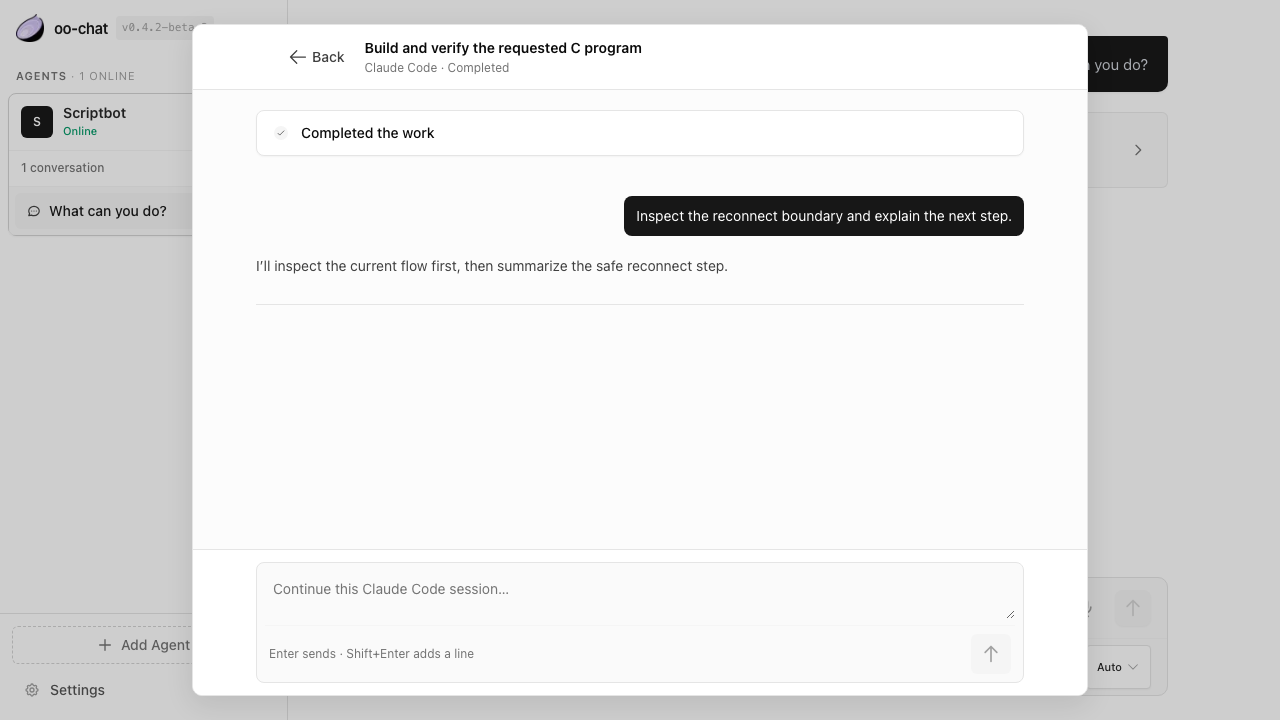
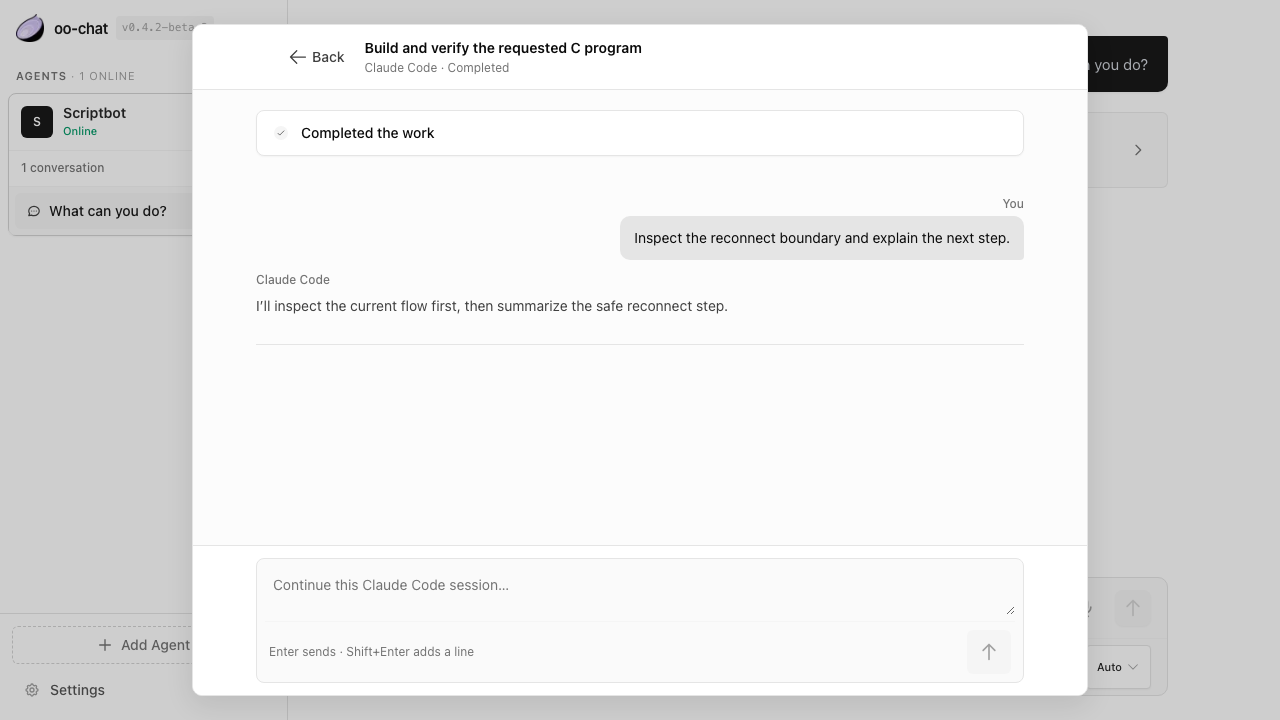
fix(workroom): keep conversation controls visible

diff --git a/components/chat/messages/coding-agent-workroom.tsx b/components/chat/messages/coding-agent-workroom.tsx
@@ -52,17 +52,29 @@ const terminal = new Set(['completed', 'failed', 'cancelled'])
 
 type DisplayActivity = ProviderActivity & { occurrences?: number }
 
-function WorkroomMessage({ role, text }: { role: 'user' | 'assistant'; text: string }) {
+function WorkroomMessage({
+  role,
+  text,
+  providerName,
+}: {
+  role: 'user' | 'assistant'
+  text: string
+  providerName: string
+}) {
   if (role === 'user') {
     return (
-      <div className="max-w-[92%] rounded-xl bg-neutral-900 px-3 py-2 text-sm leading-6 whitespace-pre-wrap break-words text-white">
-        {text}
+      <div className="max-w-[92%]">
+        <p className="mb-1 text-right text-xs font-medium text-neutral-500">You</p>
+        <div className="rounded-2xl rounded-br-md bg-neutral-200 px-3.5 py-2.5 text-sm leading-6 whitespace-pre-wrap break-words text-neutral-950">
+          {text}
+        </div>
       </div>
     )
   }
 
   return (
     <div className="min-w-0 max-w-[92%] text-sm leading-6 text-neutral-900">
+      <p className="mb-1 text-xs font-medium text-neutral-500">{providerName}</p>
       <div className="prose prose-sm prose-neutral max-w-none break-words
         prose-p:my-1.5 prose-headings:my-2 prose-headings:font-semibold
         prose-ul:my-2 prose-ol:my-2 prose-li:my-0.5
@@ -241,16 +253,34 @@ export function CodingAgentWorkroom({
     && normalisedActivityLabel(latestCompleted) !== normalisedActivityLabel(latest)
     ? latestCompleted
     : undefined
-  // An empty conversation is not useful context, and a native approval must
-  // not compete with a transcript or preview. Show the native session only
-  // when it has real evidence, outside an active decision.
-  const showProviderConversation = !hasDecision
-    && (conversation.length > 0 || Boolean(preview))
+  // Render only real provider evidence, but never delete it just because the
+  // lifecycle moves into approval. A remote coding client must keep its
+  // conversation and composer stable while the action inside them changes.
+  const showProviderConversation = conversation.length > 0 || Boolean(preview)
   const composerBlocked = stateNeedsConfirmation
     || stopPending
     || current.status === 'awaiting_approval'
     || (!providerCanAcceptWhileRunning && !terminal.has(current.status))
+    || !providerComposer
   const canSendDirectMessage = providerComposer && !composerBlocked
+  const composerPlaceholder = !providerComposer
+    ? `${current.providerDisplayName} messaging needs a matching Host and client version.`
+    : stateNeedsConfirmation
+      ? 'Waiting for the provider state to be confirmed…'
+      : stopPending
+        ? `Waiting for ${current.providerDisplayName} to stop…`
+        : current.status === 'awaiting_approval'
+          ? 'Resolve the approval request before sending another message…'
+          : !providerCanAcceptWhileRunning && !terminal.has(current.status)
+            ? `${current.providerDisplayName} is working. You can continue when this turn finishes…`
+            : terminal.has(current.status)
+              ? `Continue this ${current.providerDisplayName} session…`
+              : `Tell ${current.providerDisplayName} what to adjust…`
+  const composerHint = !providerComposer
+    ? 'Messaging is unavailable in this client version.'
+    : composerBlocked
+      ? 'This conversation is temporarily read-only.'
+      : 'Enter sends · Shift+Enter adds a line'
   const sendDirectMessage = async () => {
     const text = draft.trim()
     if (!onProviderInput || !text || !canSendDirectMessage || sending) return
@@ -474,7 +504,11 @@ export function CodingAgentWorkroom({
                       data-provider-message-role={message.role}
                       className={message.role === 'user' ? 'flex justify-end' : 'flex justify-start'}
                     >
-                      <WorkroomMessage role={message.role} text={message.text} />
+                      <WorkroomMessage
+                        role={message.role}
+                        text={message.text}
+                        providerName={current.providerDisplayName}
+                      />
                     </li>
                   ))}
                 </ol>
@@ -489,14 +523,6 @@ export function CodingAgentWorkroom({
                 </button>
               )}
             </section>
-          ) : !hasDecision && preview ? (
-            <figure aria-label="Latest provider view" className="mx-auto my-5 flex aspect-video w-full max-w-xl items-center justify-center overflow-hidden rounded-xl border border-neutral-200 bg-neutral-50">
-              <img
-                src={preview.thumbnailDataUrl}
-                alt={preview.alt}
-                className="block h-full w-full bg-neutral-100 object-contain"
-              />
-            </figure>
           ) : null}
 
           {showHistory && (
@@ -516,8 +542,7 @@ export function CodingAgentWorkroom({
 
         </div>
       </main>
-      {providerComposer && !hasDecision && (
-        <footer className="shrink-0 border-t border-neutral-200 bg-white px-4 py-3 sm:px-6">
+      <footer className="shrink-0 border-t border-neutral-200 bg-white px-4 py-3 sm:px-6">
           <div className="mx-auto max-w-3xl">
             {composeError && <p role="alert" className="mb-2 text-sm text-red-700">{composeError}</p>}
             <div className="rounded-xl border border-neutral-200 bg-neutral-50 p-2 focus-within:border-neutral-400 focus-within:bg-white">
@@ -534,29 +559,24 @@ export function CodingAgentWorkroom({
                 rows={1}
                 maxLength={12_000}
                 aria-label={`Message ${current.providerDisplayName} directly`}
-                placeholder={composerBlocked
-                  ? `${current.providerDisplayName} is working. You can continue when this turn finishes…`
-                  : terminal.has(current.status)
-                    ? `Continue this ${current.providerDisplayName} session…`
-                    : `Tell ${current.providerDisplayName} what to adjust…`}
+                placeholder={composerPlaceholder}
                 className="max-h-32 min-h-12 w-full resize-y bg-transparent px-2 py-2 text-sm text-neutral-950 placeholder-neutral-500 focus:outline-none disabled:cursor-not-allowed disabled:opacity-60"
               />
               <div className="flex items-center justify-between gap-2 border-t border-neutral-100 px-1 pt-2">
-                <p className="text-xs text-neutral-500">Enter sends · Shift+Enter adds a line</p>
+                <p className="text-xs text-neutral-500">{composerHint}</p>
                 <button
                   type="button"
                   onClick={() => { void sendDirectMessage() }}
                   disabled={!draft.trim() || !canSendDirectMessage || sending}
                   aria-label={`Send message to ${current.providerDisplayName}`}
-                  className="flex h-10 w-10 shrink-0 items-center justify-center rounded-lg bg-neutral-900 text-white hover:bg-neutral-800 disabled:cursor-not-allowed disabled:bg-neutral-100 disabled:text-neutral-400"
+                  className="flex h-11 w-11 shrink-0 items-center justify-center rounded-lg bg-neutral-900 text-white hover:bg-neutral-800 disabled:cursor-not-allowed disabled:bg-neutral-100 disabled:text-neutral-400"
                 >
                   <HiOutlineArrowUp className="h-5 w-5" />
                 </button>
               </div>
             </div>
           </div>
-        </footer>
-      )}
+      </footer>
       </div>
     </div>,
     document.body,

diff --git a/components/chat/messages/coding-agent-card.test.tsx b/components/chat/messages/coding-agent-card.test.tsx
@@ -228,12 +228,15 @@ describe('CodingAgentCard', () => {
     expect(room.textContent).not.toContain('cc -std=c11')
     expect(room.querySelector('pre')).toBeNull()
     expect(room.querySelector('details')).toBeNull()
-    expect(room.querySelector('textarea')).toBeNull()
+    const unsupportedComposer = room.querySelector<HTMLTextAreaElement>('textarea')
+    expect(unsupportedComposer).not.toBeNull()
+    expect(unsupportedComposer?.disabled).toBe(true)
+    expect(unsupportedComposer?.placeholder).toContain('matching Host and client version')
     expect(buttonNamed(room, 'Show activity history (7)')).toBeDefined()
     expect(buttonNamed(room, 'Chat')).toBeUndefined()
   })
 
-  it('omits an empty native-session panel and keeps an approval as the only active surface', () => {
+  it('omits empty conversation chrome but keeps real messages and the composer through approval', () => {
     const onProviderInput = vi.fn().mockResolvedValue({
       invocationId: invocation.id,
       stateRevision: 1,
@@ -280,9 +283,12 @@ describe('CodingAgentCard', () => {
     })
     act(() => buttonNamed(approvalElement, 'Review decision')!.click())
     const decisionRoom = workroom()
-    expect(decisionRoom.querySelector('[aria-label="Codex conversation"]')).toBeNull()
-    expect(decisionRoom.querySelector('[aria-label="Latest provider view"]')).toBeNull()
-    expect(decisionRoom.querySelector('[aria-label="Message Codex directly"]')).toBeNull()
+    expect(decisionRoom.querySelector('[aria-label="Codex conversation"]')).not.toBeNull()
+    expect(decisionRoom.querySelector('[aria-label="Latest provider view"]')).not.toBeNull()
+    const decisionComposer = decisionRoom.querySelector<HTMLTextAreaElement>('[aria-label="Message Codex directly"]')
+    expect(decisionComposer).not.toBeNull()
+    expect(decisionComposer?.disabled).toBe(true)
+    expect(decisionComposer?.placeholder).toContain('Resolve the approval request')
     expect(decisionRoom.querySelector('[aria-label="Current provider status"]')).toBeNull()
     expect(buttonNamed(decisionRoom, 'Allow once')).toBeDefined()
   })
@@ -570,7 +576,9 @@ describe('CodingAgentCard', () => {
     expect(buttonNames).not.toContain('Show activity history (7)')
     expect(room.querySelector('[aria-label="Current provider status"]')).toBeNull()
     expect(room.querySelector('[aria-label="Codex conversation"]')).toBeNull()
-    expect(room.querySelector('[aria-label="Message Codex directly"]')).toBeNull()
+    const settledComposer = room.querySelector<HTMLTextAreaElement>('[aria-label="Message Codex directly"]')
+    expect(settledComposer).not.toBeNull()
+    expect(settledComposer?.disabled).toBe(true)
 
   })
 

diff --git a/e2e/coding-agent-card.spec.ts b/e2e/coding-agent-card.spec.ts
@@ -238,8 +238,14 @@ test('a verified native approval stays compact on the card and opens its full Wo
     await room.locator('[aria-label="Work Room decision"], [aria-label="Current provider status"]')
       .evaluateAll(nodes => nodes.map(node => node.getAttribute('aria-label'))),
   ).toEqual(['Work Room decision'])
-  await expect(room.getByLabel('Codex conversation')).toHaveCount(0)
-  await expect(room.getByLabel('Message Codex directly')).toHaveCount(0)
+  const conversation = room.getByLabel('Codex conversation')
+  await expect(conversation).toBeVisible()
+  await expect(conversation.getByText('You', { exact: true })).toBeVisible()
+  await expect(conversation.getByText('Codex', { exact: true })).toBeVisible()
+  const composer = room.getByLabel('Message Codex directly')
+  await expect(composer).toBeVisible()
+  await expect(composer).toBeDisabled()
+  await expect(composer).toHaveAttribute('placeholder', /Resolve the approval request/)
   await shot('codex-c-sort-approval-workroom-desktop')
 })
 

diff --git a/e2e/mock-agent.ts b/e2e/mock-agent.ts
@@ -731,6 +731,16 @@ export async function mockAgent(
         }
         if (scenario === 'coding-agent-long-approval' || scenario === 'coding-agent-stale-approval') {
           if (scenario === 'coding-agent-long-approval') {
+            for (const [messageId, role, text] of [
+              ['user:approval', 'user', 'Inspect the workspace and continue only after I approve the bounded action.'],
+              ['assistant:approval', 'assistant', 'I inspected the current state and need your approval before I continue.'],
+            ] as const) {
+              send(ws, {
+                type: 'provider_message', provider: 'codex',
+                invocationId: 'codex:call-7', parentToolCallId: 'call-7',
+                messageId, role, text, workroomId: 'codex:call-7',
+              })
+            }
             send(ws, {
               type: 'provider_invocation', invocationId: 'codex:call-7',
               parentToolCallId: 'call-7', provider: 'codex',

diff --git a/docs/WORKROOM.md b/docs/WORKROOM.md
@@ -44,21 +44,24 @@ The transcript card is intentionally small:
   ambiguous, elevated or unverified approvals fail closed rather than creating
   a shortcut to broader trust.
 
-The Work Room is one vertically scrolling detail surface:
+The Work Room is one vertically scrolling conversation and work surface:
 
-1. an approval, if the authoritative provider state is awaiting approval; in
-   that state it is the only active surface — there is no empty conversation,
-   passive activity panel, or disabled composer competing with the decision;
-2. otherwise, recent native Codex conversation or one real current preview
-   appears only when it has evidence; it shares the same continuous Work Room
-   content flow as the current state, rather than becoming another boxed panel;
-3. one compact current-status sentence and, only while a different later
+1. attributed user and provider messages remain visible whenever the provider
+   supplied them, including while an approval is pending;
+2. an approval, if the authoritative provider state is awaiting approval,
+   becomes the primary action without deleting the conversation around it;
+3. recent native conversation or one real current preview appears only when it
+   has evidence; it shares the same continuous Work Room content flow as the
+   current state, rather than becoming another boxed panel;
+4. one compact current-status sentence and, only while a different later
    activity is running, one short **Last completed** result in the same reading
    unit; there is no duplicate progress meter, step counter, or repeated
    “latest” panel;
-4. an explicit earlier-activity disclosure in the same page scroll; and
-5. for Codex outside a pending decision, a fixed footer composer that sends
-   directly to the native thread.
+5. an explicit earlier-activity disclosure in the same page scroll; and
+6. a fixed provider-targeted footer composer for both Codex and Claude Code.
+   When provider authority temporarily prevents sending, or a matching Host /
+   client capability is unavailable, the composer stays visible but disabled
+   and explains why.
 
 ### Information hierarchy and approval decision
 
@@ -99,11 +102,11 @@ the matching invocation. The strip stays settled, never re-enables a button,
 and disappears on a new approval, Stop barrier or terminal/provider transition.
 It does not retain raw approval arguments during that bridge.
 
-While such a decision is open, it replaces passive Work Room content rather than
-being stacked above it. A disabled message box, an empty “Live session” panel,
-or a secondary status/history card all make the person scan irrelevant controls
-when they need to make one bounded choice. Once the native provider moves to a
-new state, the ordinary current-session hierarchy returns.
+While such a decision is open, it replaces passive status and activity panels
+rather than being stacked above them. The existing attributed conversation and
+fixed composer remain in place so the Work Room does not turn into a different
+product mid-session. The composer is disabled with an approval-specific reason;
+once the decision settles, the authoritative provider state enables it again.
 
 Only a typed, safe `provider_artifact` may render a visual preview. Text, command
 activity, or an absent artifact must never be made to look like a Codex
@@ -155,7 +158,9 @@ plain-text `provider_message` events; raw commands, paths, and output remain out
 of the conversation.
 
 The default composer deliberately stays to one text field and one send action.
-It never adds hidden instructions or raw provider output to OIP.
+It never adds hidden instructions or raw provider output to OIP. It is a stable
+part of the Work Room shell: unsupported, approval, stopping, reconnect, and
+provider-busy states change its availability and explanation, not its existence.
 
 ## Scoped Stop lifecycle
 

diff --git a/IMPLEMENTATION_PLAN.md b/IMPLEMENTATION_PLAN.md
@@ -76,8 +76,10 @@ parse source code or provider transport to understand the default screen.
   Host run exercised two one-time approvals, completed a strict C11 rebuild
   and test run, and a separate run proved exact provider Stop reaches a
   `cancelled` terminal state without cancelling the outer turn.
-- [ ] Define and implement a real `provider_continuation` protocol before any
-  continuation composer is exposed. Do not ship a fake chat input.
+- [x] Define and implement real correlated provider input/continuation before
+  enabling sends. The Work Room now keeps its provider-targeted composer visible
+  in every lifecycle state and disables it with an explicit reason whenever the
+  current Host, client, approval, Stop, or provider state cannot accept input.
 - [ ] Add OIP `stateRevision` and correlated Stop `requestId` before claiming
   reconnect-safe Stop recovery or rendering a versioned provider artifact.
 - [ ] Update preview package/repository pins, release notes, deployment skill,
